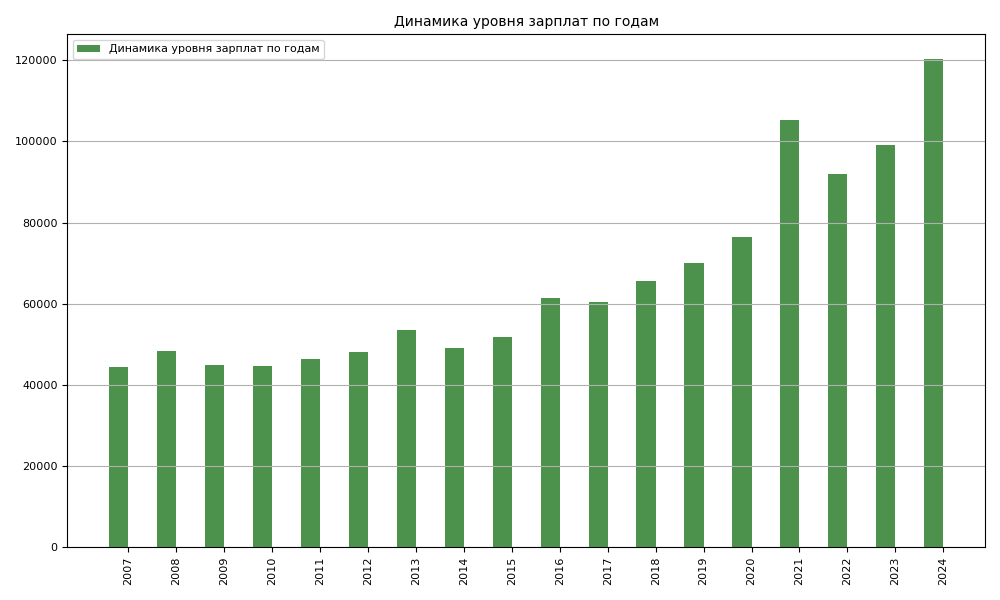
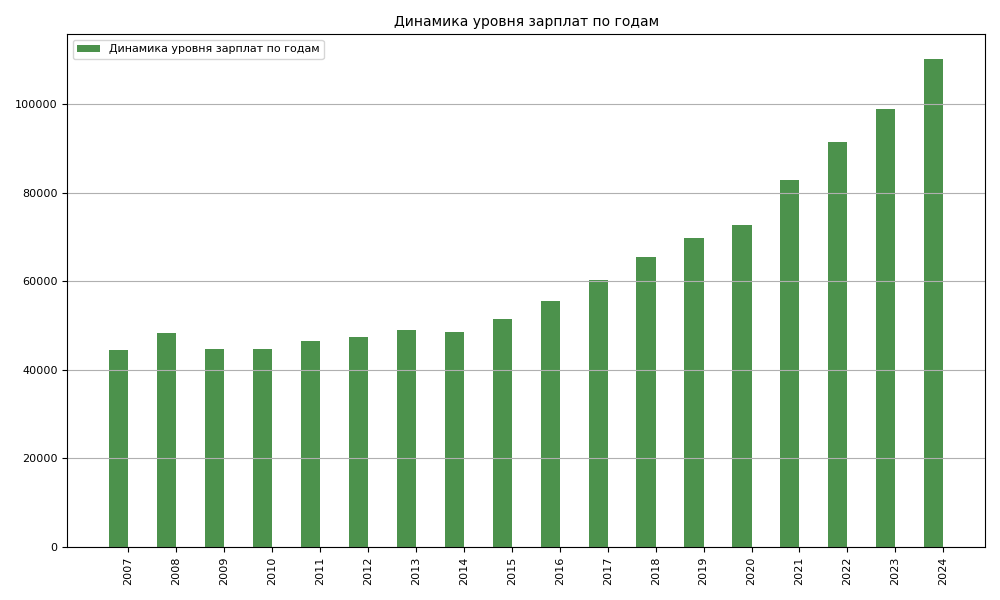
General Statistics
The General Statistics page has been generated

diff --git a/profession_tester/templates/general_statistics/index.html b/profession_tester/templates/general_statistics/index.html
@@ -1,19 +1,17 @@
 {% extends "base.html" %}
-
+{% load static %}
 {% block title %}Общая статистика{% endblock %}
-
 {% block content %}
-  <h2>Динамика уровня зарплат по годам</h2>
-
+  <h2>{{ get_count_year_dynamic.title }}</h2>
   <table border="1" style="width: 100%; border-collapse: collapse;">
     <thead>
       <tr>
-        <th style="width: 50%; padding: 8px; border: 1px solid black;">{{ second_parameter }}</th>
-        <th style="width: 50%; padding: 8px; border: 1px solid black;">{{ first_parameter }}</th>
+        <th style="width: 50%; padding: 8px; border: 1px solid black;">{{ get_count_year_dynamic.second_parameter }}</th>
+        <th style="width: 50%; padding: 8px; border: 1px solid black;">{{ get_count_year_dynamic.first_parameter }}</th>
       </tr>
     </thead>
     <tbody>
-      {% for row in data %}
+      {% for row in get_count_year_dynamic.data %}
       <tr>
         <td style="padding: 8px; border: 1px solid black;">{{ row.second }}</td>
         <td style="padding: 8px; border: 1px solid black;">{{ row.first }}</td>
@@ -21,4 +19,81 @@
       {% endfor %}
     </tbody>
   </table>
+  <img src="{% static 'img/get_count_year_dynamic.png' %}">
+
+<h2>{{ get_salary_year_dynamic.title }}</h2>
+  <table border="1" style="width: 100%; border-collapse: collapse;">
+    <thead>
+      <tr>
+        <th style="width: 50%; padding: 8px; border: 1px solid black;">{{ get_salary_year_dynamic.second_parameter }}</th>
+        <th style="width: 50%; padding: 8px; border: 1px solid black;">{{ get_salary_year_dynamic.first_parameter }}</th>
+      </tr>
+    </thead>
+    <tbody>
+      {% for row in get_salary_year_dynamic.data %}
+      <tr>
+        <td style="padding: 8px; border: 1px solid black;">{{ row.second }}</td>
+        <td style="padding: 8px; border: 1px solid black;">{{ row.first }}</td>
+      </tr>
+      {% endfor %}
+    </tbody>
+  </table>
+  <img src="{% static 'img/get_salary_year_dynamic.png' %}">
+
+<h2>{{ get_top_10_salary_city.title }}</h2>
+  <table border="1" style="width: 100%; border-collapse: collapse;">
+    <thead>
+      <tr>
+        <th style="width: 50%; padding: 8px; border: 1px solid black;">{{ get_top_10_salary_city.second_parameter }}</th>
+        <th style="width: 50%; padding: 8px; border: 1px solid black;">{{ get_top_10_salary_city.first_parameter }}</th>
+      </tr>
+    </thead>
+    <tbody>
+      {% for row in get_top_10_salary_city.data %}
+      <tr>
+        <td style="padding: 8px; border: 1px solid black;">{{ row.second }}</td>
+        <td style="padding: 8px; border: 1px solid black;">{{ row.first }}</td>
+      </tr>
+      {% endfor %}
+    </tbody>
+  </table>
+  <img src="{% static 'img/get_top_10_salary_city.png' %}">
+
+<h2>{{ get_top_10_vac_city.title }}</h2>
+  <table border="1" style="width: 100%; border-collapse: collapse;">
+    <thead>
+      <tr>
+        <th style="width: 50%; padding: 8px; border: 1px solid black;">{{ get_top_10_vac_city.second_parameter }}</th>
+        <th style="width: 50%; padding: 8px; border: 1px solid black;">{{ get_top_10_vac_city.first_parameter }}</th>
+      </tr>
+    </thead>
+    <tbody>
+      {% for row in get_top_10_vac_city.data %}
+      <tr>
+        <td style="padding: 8px; border: 1px solid black;">{{ row.second }}</td>
+        <td style="padding: 8px; border: 1px solid black;">{{ row.first }}</td>
+      </tr>
+      {% endfor %}
+    </tbody>
+  </table>
+  <img src="{% static 'img/get_top_10_vac_city.png' %}">
+
+<h2>{{ data_get_top_20_skills.title }}</h2>
+  <table border="1" style="width: 100%; border-collapse: collapse;">
+    <thead>
+      <tr>
+        <th style="width: 50%; padding: 8px; border: 1px solid black;">{{ data_get_top_20_skills.second_parameter }}</th>
+        <th style="width: 50%; padding: 8px; border: 1px solid black;">{{ data_get_top_20_skills.first_parameter }}</th>
+      </tr>
+    </thead>
+    <tbody>
+      {% for row in data_get_top_20_skills.data %}
+      <tr>
+        <td style="padding: 8px; border: 1px solid black;">{{ row.second }}</td>
+        <td style="padding: 8px; border: 1px solid black;">{{ row.first }}</td>
+      </tr>
+      {% endfor %}
+    </tbody>
+  </table>
+  <img src="{% static 'img/get_top_20_skills.png' %}">
 {% endblock %}

diff --git a/profession_tester/get_charts.py b/profession_tester/get_charts.py
@@ -1,5 +1,6 @@
 import re
 import random
+from collections import Counter
 import matplotlib.colors as mcolors
 import matplotlib.pyplot as plt
 import numpy as np
@@ -7,7 +8,7 @@ import pandas as pd
 from import_csv import get_salary
 
 
-def get_data_from_csv(vacancies, profession):
+def get_data_from_csv(vacancies, profession_regex):
     years = range(2007, 2025)
     salary_by_year, count_by_year = calculate_yearly_metrics(vacancies, years)
     professional_vacancies = vacancies[vacancies["name"].str.contains(profession_regex, case=False, na=False)]
@@ -15,12 +16,25 @@ def get_data_from_csv(vacancies, profession):
     cities, cities_counts = calculate_city_metrics(vacancies)
     cities_prof, cities_counts_prof = calculate_city_metrics(professional_vacancies)
 
-    return (salary_by_year, count_by_year, salary_by_year_prof, count_by_year_prof, cities, cities_counts, cities_prof, cities_counts_prof)
+    return (salary_by_year, count_by_year, salary_by_year_prof, count_by_year_prof, cities, cities_counts, cities_prof,
+            cities_counts_prof)
+
+
+def clean_value(value):
+    value = str(value)
+    if not value:
+        return "Нет данных"
+    if '\n' in value:
+        return [' '.join(item.strip().split()) for item in value.split('\n')]
+    value = re.sub(r'<.*?>', '', value)
+    value = ' '.join(value.split())
+    return value.strip()
 
 
 def calculate_yearly_metrics(vacancies, necessary_years):
+    filtered_vacancies = vacancies[vacancies["average"] <= 10_000_000]
     salary_by_year = (
-        vacancies.groupby("year")["average"]
+        filtered_vacancies.groupby("year")["average"]
         .mean()
         .reindex(necessary_years, fill_value=0).apply(round).to_dict()
     )
@@ -40,7 +54,7 @@ def calculate_city_metrics(vacancies):
             average_salary=("average", "mean"),
             count=("name", "count")
         )
-        .fillna(0)  # Заменяем NaN на 0
+        .fillna(0)
         .assign(percent=lambda df: df["count"] / all_vacancies)
         .sort_values(["average_salary", "area_name"], ascending=[False, True])
         .query("percent >= 0.01")
@@ -67,7 +81,7 @@ def get_count_year_dynamic(count_by_year, label, file_name):
 
     fig, ax = plt.subplots(figsize=(10, 6))
     ax.bar(x - width / 2, list(count_by_year.values()), width=width, color=(0 / 255, 100 / 255, 0 / 255, 0.7),
-        label=label)
+           label=label)
     ax.set_title(label, fontsize=10)
     ax.grid(axis="y")
     ax.legend(fontsize=8)
@@ -136,6 +150,33 @@ def get_top_10_vac_city(cities_counts, label, file_name):
     plt.close(fig)
 
 
+def get_top_20_skills():
+    filled_skills = vacancies[vacancies['key_skills'].notna()]
+    skills = []
+    for _, vacancy in filled_skills.iterrows():
+        skill = clean_value(vacancy.get("key_skills"))
+        if isinstance(skill, list):
+            skills.extend(skill)
+        else:
+            skills.append(skill)
+    skill_count = dict(Counter(skills).most_common(20))
+    fig, ax = plt.subplots(figsize=(10, 6))
+    ax.barh(list(skill_count.keys()), list(skill_count.values()), color=(0 / 255, 100 / 255, 0 / 255, 0.7))
+    ax.set_title("ТОП-20 навыков", fontsize=10)
+    ax.grid(axis="x")
+    yticks_positions = range(20)
+    ax.set_yticks(yticks_positions)
+    ax.set_yticklabels(skill_count.keys(), fontsize=6, ha="right", va="center")
+    ax.tick_params(axis="x", labelsize=8)
+    ax.invert_yaxis()
+
+    plt.tight_layout()
+    plt.savefig("static/img/get_top_20_skills.png")
+    plt.close(fig)
+
+    return skill_count
+
+
 if __name__ == '__main__':
     df_currency = pd.read_csv('currency.csv', index_col='date')
     vacancies = pd.read_csv("vacancies_2024.csv", low_memory=False)
@@ -147,11 +188,15 @@ if __name__ == '__main__':
     salary_by_year, count_by_year, salary_by_year_prof, count_by_year_prof, cities, cities_counts, cities_prof, cities_counts_prof = get_data_from_csv(
         vacancies, profession_regex)
     get_count_year_dynamic(count_by_year, "Динамика количества вакансий по годам", "get_count_year_dynamic")
-    get_count_year_dynamic(count_by_year_prof, "Динамика количества вакансий Тестировщик (QA-инженер) по годам", "get_count_year_dynamic_prof")
+    get_count_year_dynamic(count_by_year_prof, "Динамика количества вакансий Тестировщик (QA-инженер) по годам",
+                           "get_count_year_dynamic_prof")
     get_salary_year_dynamic(salary_by_year, "Динамика уровня зарплат по годам", "get_salary_year_dynamic")
     get_salary_year_dynamic(salary_by_year_prof, "Динамика уровня зарплат вакансии Тестировщик (QA-инженер) по годам",
-                           "get_salary_year_dynamic_prof")
+                            "get_salary_year_dynamic_prof")
     get_top_10_salary_city(cities, "Уровень зарплат по городам", "get_top_10_salary_city")
-    get_top_10_salary_city(cities_prof, "Уровень зарплат вакансии Тестировщик (QA-инженер) по городам", "get_top_10_salary_city_prof")
+    get_top_10_salary_city(cities_prof, "Уровень зарплат вакансии Тестировщик (QA-инженер) по городам",
+                           "get_top_10_salary_city_prof")
     get_top_10_vac_city(cities_counts, "Доля вакансий по городам", "get_top_10_vac_city")
-    get_top_10_vac_city(cities_counts_prof, "Доля вакансий Тестировщик (QA-инженер) по городам", "get_top_10_vac_city_prof")
+    get_top_10_vac_city(cities_counts_prof, "Доля вакансий Тестировщик (QA-инженер) по городам",
+                        "get_top_10_vac_city_prof")
+    get_top_20_skills()

diff --git a/profession_tester/general_statistics/views.py b/profession_tester/general_statistics/views.py
@@ -1,7 +1,19 @@
+from collections import Counter
 from django.db.models import Count, Avg, F
 from django.db.models.functions import Substr, Round
 from django.shortcuts import render
 from demand.models import Vacancy
+from get_charts import clean_value
+
+
+def declension(number, word):
+    if 10 <= number % 100 <= 20:
+        return f"{number} {word[2]}"
+    if number % 10 == 1:
+        return f"{number} {word[0]}"
+    if 2 <= number % 10 <= 4:
+        return f"{number} {word[1]}"
+    return f"{number} {word[2]}"
 
 
 def index(request):
@@ -17,31 +29,31 @@ def index(request):
 
     data_get_count_year_dynamic = (
         Vacancy.objects.exclude(salary__isnull=True)
-        .annotate(year=Substr('published_at', 1, 4))
+        .annotate(year=Substr("date", 1, 4))
         .values("year")
         .annotate(count_id=Count("id"))
         .values("count_id", "year")
     )
 
     data_get_top_10_salary_city = (Vacancy
-            .objects
-            .exclude(salary__isnull=True)
-            .values("area_name")
-            .annotate(avg_salary=Avg("salary"), total_vacancies=Count("id"))
-            .filter(total_vacancies__gt=1)
-            .order_by("avg_salary")
-            .values("avg_salary", "area_name"))[:10]
+                                   .objects
+                                   .exclude(salary__isnull=True)
+                                   .values("area_name")
+                                   .annotate(avg_salary=Avg("salary"), total_vacancies=Count("id"))
+                                   .filter(total_vacancies__gt=1)
+                                   .order_by("avg_salary")
+                                   .values("avg_salary", "area_name"))[:10]
 
     amount_vacancies = Vacancy.objects.filter(salary__isnull=False).count()
     data_get_top_10_vac_city = (Vacancy
-            .objects
-            .values('area_name')
-            .filter(salary__isnull=False)
-            .annotate(count=Count('salary'))
-            .annotate(percent=Round(F('count') * 1.0 / amount_vacancies, 4))
-            .filter(percent__gt=0.01)
-            .order_by('-percent')[:10]
-            )
+                                .objects
+                                .values('area_name')
+                                .filter(salary__isnull=False)
+                                .annotate(count=Count('salary'))
+                                .annotate(percent=Round(F('count') * 1.0 / amount_vacancies, 4))
+                                .filter(percent__gt=0.01)
+                                .order_by('-percent')[:10]
+                                )
     result_data_get_top_10_vac_city = [
         {
             'first': str(row['percent']),
@@ -50,28 +62,61 @@ def index(request):
         for row in data_get_top_10_vac_city
     ]
 
+    data_get_top_20_skills = (Vacancy
+                              .objects
+                              .filter(key_skills__isnull=False)
+                              .values('key_skills')
+                              )
+    skills = []
+    for skill in data_get_top_20_skills:
+        skill = clean_value(skill['key_skills'])
+        if isinstance(skill, list):
+            skills.extend(skill)
+        else:
+            skills.append(skill)
+    result_data_get_top_20_skills = [
+        {
+            'first': f"{declension(row[1], ['раз', 'раза', 'раз'])}",
+            'second': str(row[0])
+        }
+        for row in dict(Counter(skills).most_common(20)).items()
+    ]
+
     context = {
         'get_count_year_dynamic': {
-            'first_parameter': 'Vacancies count',
-            'second_parameter': 'Year',
+            'title': "Динамика количества вакансий по годам",
+            'first_parameter': 'Количество вакансий год',
+            'second_parameter': 'Год',
             'data': [{'first': row['count_id'], 'second': row['year']} for row in data_get_count_year_dynamic],
         },
         'get_salary_year_dynamic': {
-            'first_parameter': 'Avg salary',
-            'second_parameter': 'Year',
+            'title': "Динамика уровня зарплат по годам",
+            'first_parameter': 'Средняя зарплата',
+            'second_parameter': 'Год',
             'data': [{'first': round(row['avg_salary']) * 1.0, 'second': row['year']} for row in
                      data_get_salary_year_dynamic],
         },
         'get_top_10_salary_city': {
-            'first_parameter': 'Avg salary',
-            'second_parameter': 'City',
-            'data': [{"first": round(row["avg_salary"]) * 1.0, "second": row["area_name"]} for row in data_get_top_10_salary_city],
+            'title': "Уровень зарплат по городам",
+            'first_parameter': 'Средняя зарплата',
+            'second_parameter': 'Город',
+            'data': [{"first": round(row["avg_salary"]) * 1.0, "second": row["area_name"]} for row in
+                     data_get_top_10_salary_city],
         },
         'get_top_10_vac_city': {
-            'first_parameter': 'Vacancy rate',
-            'second_parameter': 'City',
+            'title': "Доля вакансий по городам",
+            'first_parameter': 'Доля вакансий',
+            'second_parameter': 'Город',
             'data': result_data_get_top_10_vac_city,
         },
+        'data_get_top_20_skills': {
+            'title': f"Из {declension(len(set(skills)), ['скилла', 'скиллов', 'скиллов'])}, самыми популярными являются:",
+            'first_parameter': 'Количество',
+            'second_parameter': 'Навык',
+            'data': result_data_get_top_20_skills,
+        }
     }
+
+
 
     return render(request, 'general_statistics/index.html', context)
